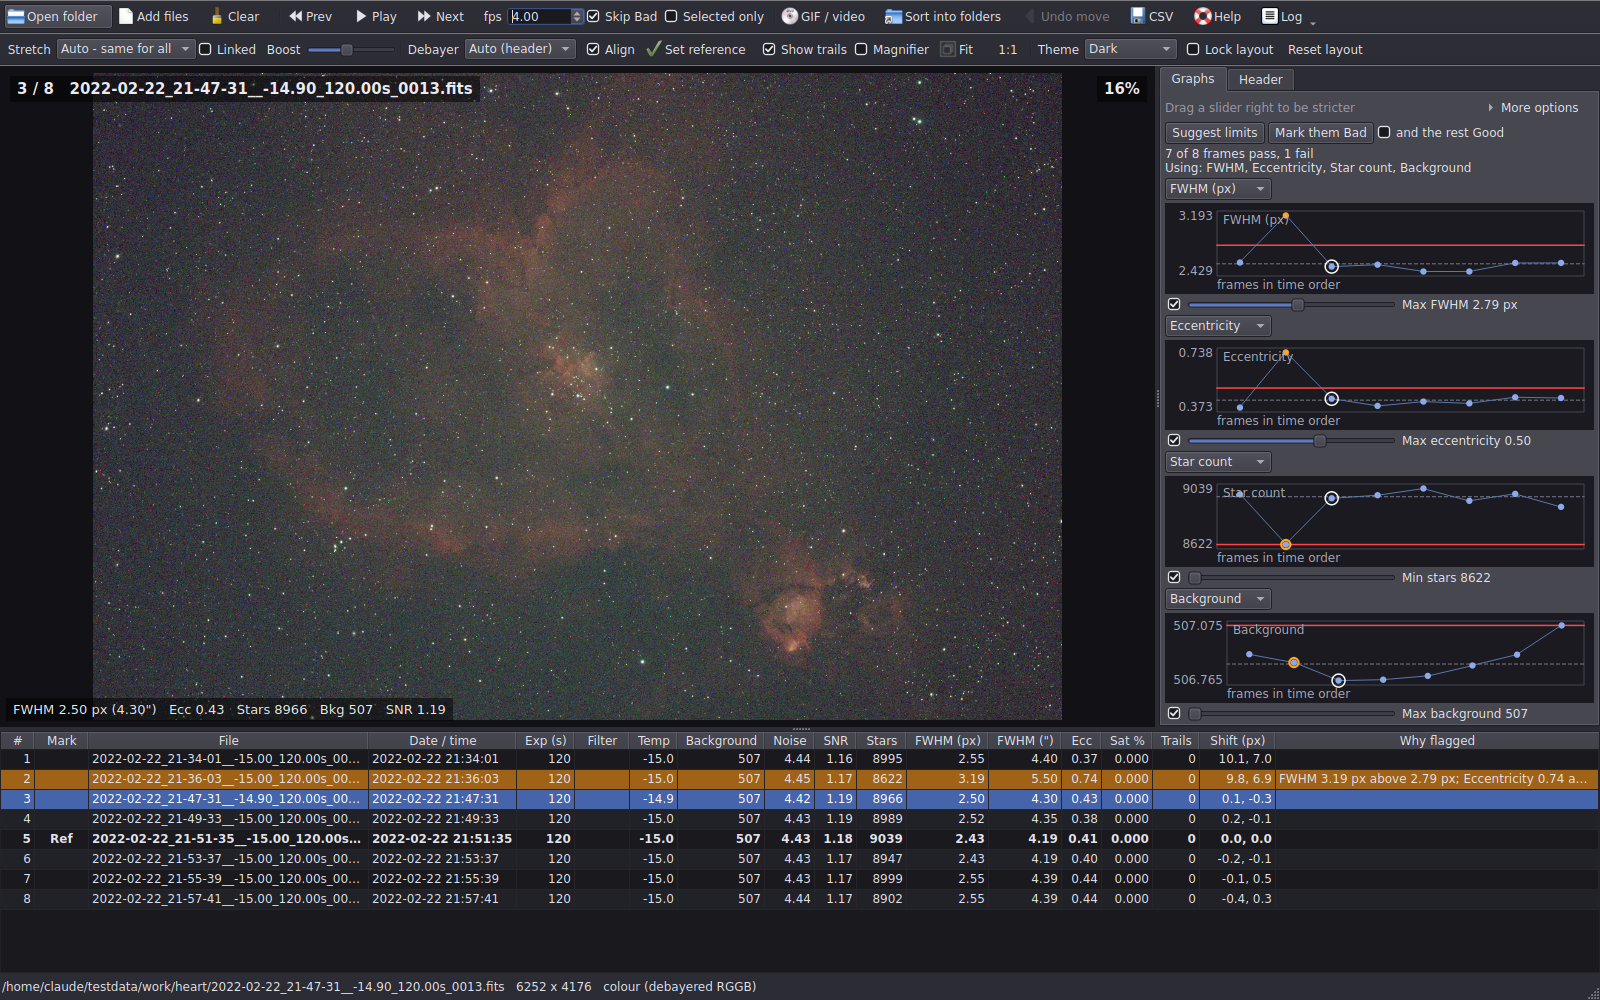
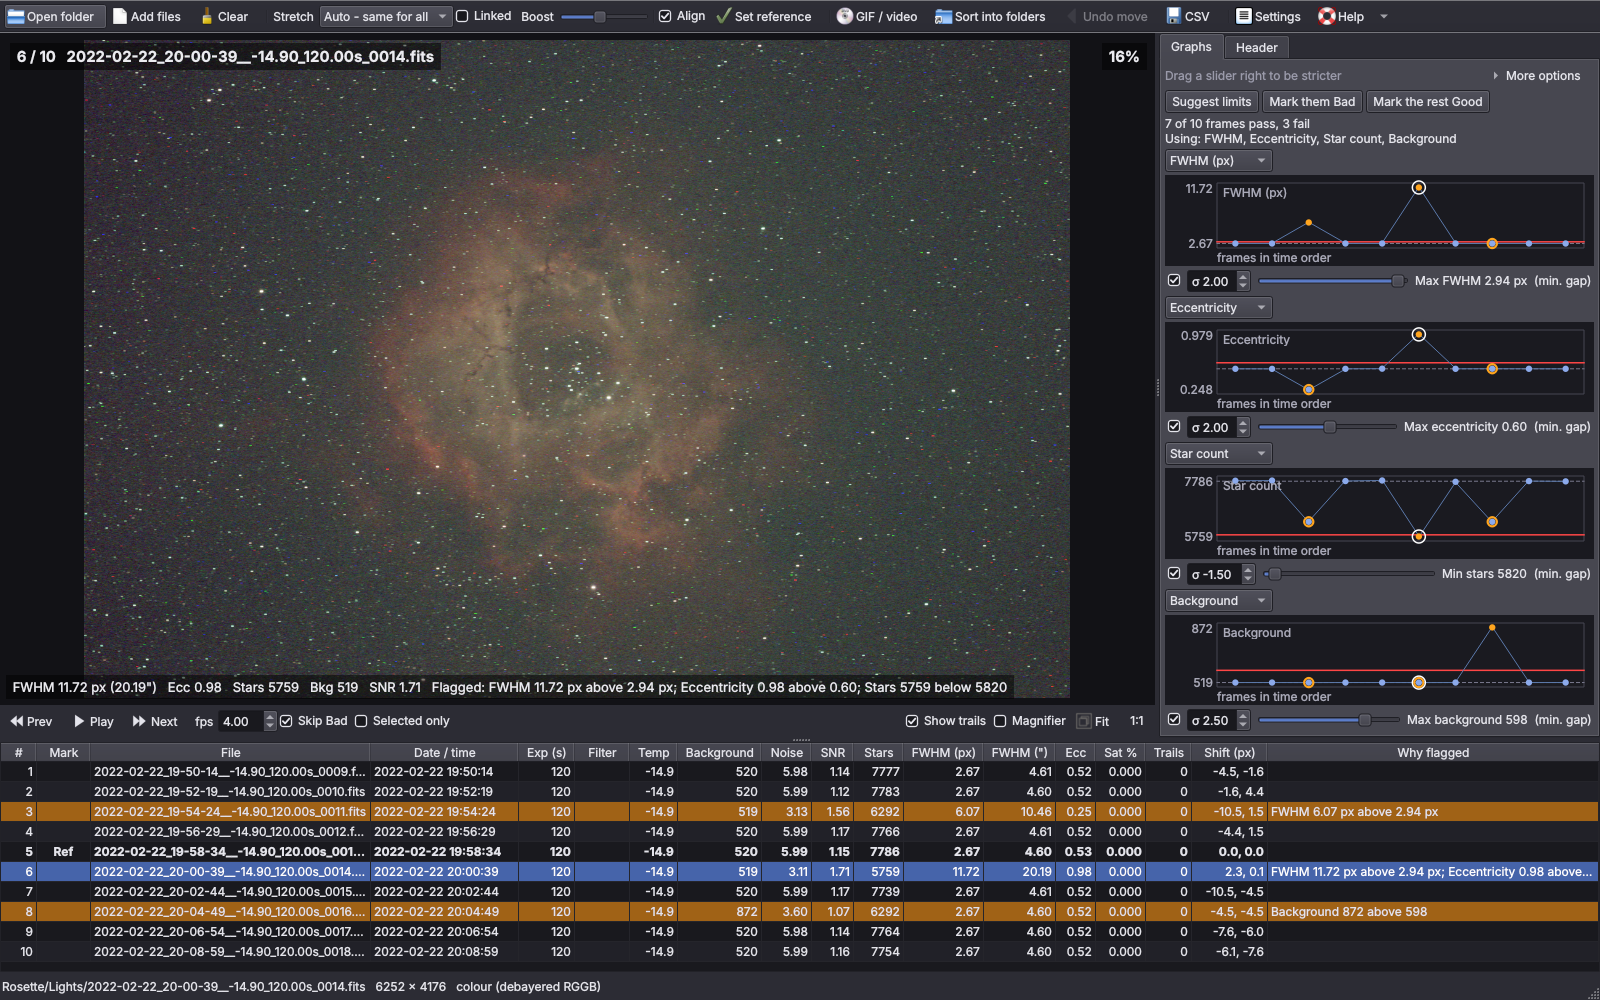
Add files via upload

diff --git a/README.md b/README.md
@@ -19,20 +19,20 @@ Open a folder of subs and AS Blink measures every frame in the background while 
 - **Correct colour (OSC) debayering:** reads the Bayer pattern from the header (BAYERPAT, ROWORDER, XBAYROFF / YBAYROFF, XISF colour filter array), checks it against the data, and warns you if the header has it wrong.
 - **Statistics for every frame:** background, noise, SNR, star count, FWHM (pixels and arcseconds), eccentricity, saturation, trails and shift.
 - **Session graphs** of any measurement through the night, including sensor and focuser temperature, so you can tell whether a rise in FWHM followed the temperature or the seeing.
-- **Graphs with sliders:** each graph has a slider that sets a limit. Dragging right is always stricter. **Suggest limits** finds the odd ones out for you, and **Keep only the best** keeps the best part of the session.
+- **Graphs with sliders:** each graph has a slider that sets a limit. Dragging right is always stricter. **Suggest limits** finds the odd ones out for you, with its own sigma for each graph (like SubframeSelector's `FWHMSigma <= 2` and `StarsSigma >= -1.5`), and **Keep only the best** keeps the best part of the session.
 - **Trail detection:** finds satellite and aircraft trails, including faint ones, and ignores nebula edges that show up in every frame.
 - **Align while blinking:** frames are lined up to a reference frame, including a 180 degree turn after a meridian flip.
 - **Auto stretch:** one shared stretch, so cloud and moonlight stand out, or a stretch for each frame for comparing detail.
 - **Full header view:** every keyword, with a search box and an option to show only what changed from the previous frame.
 - **Magnifier**, fit to window and 1:1 zoom.
-- **Mark Good / Bad** with one key, then **sort into folders**. Moves can be undone.
+- **Mark Good / Bad** with one key, then **sort into folders**: inside the lights folder, in a folder beside it (`Lights_Bad`), or anywhere you choose, and optionally only the Bad frames. Moves can be undone.
 - **GIF or MP4** of selected frames, and **CSV** of the statistics.
 - **Videos:** step through SER, AVI, MP4 and MOV files one frame at a time, or play them at 0.5 to 30 frames a second.
-- **Themes:** Dark, Light and Night (red). The layout is remembered and can be locked.
-- **Support log:** if something goes wrong, **Log > Save log for support...** saves one text file to send in.
+- **Themes:** Dark, Light and Night (red), in **Settings**. The layout is remembered and can be locked.
+- **Support log:** if something goes wrong, **Save log for support...** (under the arrow beside **Help**) saves one text file to send in.
 - **Update check:** once a day it checks GitHub for a newer version and shows a bar with a link to the download page. Turn it off at the bottom of the Help window.
 
-| Light theme (mono subs) | Trail found |
+| Light theme | Trail found |
 |---|---|
 | ![Light theme](screenshots/main_light.png) | ![Satellite trail](screenshots/trail.png) |
 
@@ -75,9 +75,13 @@ You can make a desktop shortcut to `AS_Blink.exe`, and you can drag a folder of 
 
 ## Rejecting frames
 
-Under each graph is a tick box and a slider. The slider is the limit for that measurement (for example "Max FWHM 3.09 px"), drawn as a red line on the graph. Frames past a limit turn orange. Only measurements that are shown on a graph and ticked are used, so to judge on FWHM and star count alone, untick the others.
+The blink controls (Prev, Play, Next, speed, Skip Bad, Selected only) are in the bar under the picture.
 
-**Suggest limits** sets each ticked slider to the session's "odd ones out": frames worse than the typical value by more than twice its usual spread, or by a minimum gap if that is bigger. Frames are only flagged until you press **Mark them Bad**, and nothing is moved until you use **Sort into folders**.
+Under each graph is a tick box, a sigma and a slider. The slider is the limit for that measurement (for example "Max FWHM 3.09 px"), drawn as a red line on the graph. Frames past a limit turn orange. Only measurements that are shown on a graph and ticked are used, so to judge on FWHM and star count alone, untick the others.
+
+**Suggest limits** sets each ticked slider to the session's "odd ones out": frames worse than the typical value by more than that graph's sigma times its usual spread, or by a minimum gap if that is bigger (the gap stops a very steady graph flagging tiny wobbles, and "(min. gap)" shows when it sets the limit). Each graph has its own sigma, the same way round as PixInsight's SubframeSelector: plus for "too high" (FWHM 2, eccentricity 2, background 2.5) and minus for "too low" (star count -1.5, SNR -2.5). Change a sigma and its slider moves straight away.
+
+Frames are only flagged until you press **Mark them Bad**. **Mark the rest Good** marks every other measured frame, before or after. Nothing is moved until you use **Sort into folders**, which can put the Bad frames in a folder beside your lights folder (`Lights_Bad`), so stacking software that reads the folders inside your lights folder does not pick them up, and can leave everything else where it is.
 
 Keep each filter in its own folder: the limits apply to every frame that is open, and AS Blink warns you if a folder mixes filters, exposures or frame sizes.
 
@@ -93,7 +97,7 @@ SER and video files open on the **Linear** stretch, so a planet or the Moon show
 
 ## Something not working?
 
-AS Blink keeps a log of what it does: the files it opens (file names only, never the full path or your user name), how each one was measured, any errors, and sorting and exports. Use **Log > Save log for support...** to save it as one text file, and send it with a few words on what you were doing. **Log > Open log folder** shows where it is kept.
+AS Blink keeps a log of what it does: the files it opens (file names only, never the full path or your user name), how each one was measured, any errors, and sorting and exports. Click the small arrow beside **Help** and choose **Save log for support...** to save it as one text file, and send it with a few words on what you were doing. **Open log folder**, in the same list, shows where it is kept.
 
 ## Licence
 
@@ -103,8 +107,6 @@ You may use it free of charge and share it unchanged, but not sell it, modify it
 
 ## Support
 
-If AS Blink saves you time, you can buy me a coffee: 
-
-<a href="https://www.buymeacoffee.com/astroshed"><img src="https://cdn.buymeacoffee.com/buttons/v2/default-yellow.png" alt="Buy Me a Coffee" height="50"></a>
+If AS Blink saves you time, you can buy me a coffee: [buymeacoffee.com/astroshed](https://buymeacoffee.com/astroshed)
 
 More AstroShed software and videos: [astroshed.co.uk](https://astroshed.co.uk)

diff --git a/CHANGELOG.md b/CHANGELOG.md
@@ -1,5 +1,15 @@
 # Changelog
 
+## 1.0.4
+
+- **Added:** a sigma for each graph. **Suggest limits** now uses a separate sigma for FWHM, eccentricity, star count, background and SNR, set the same way round as PixInsight's SubframeSelector (plus for too high, minus for too low). The starting values are FWHM 2, eccentricity 2, background 2.5, star count -1.5 and SNR -2.5. Changing a sigma moves its slider straight away, and "(min. gap)" shows when the minimum gap, not the sigma, sets a limit.
+- **Added:** Sort into folders can put the folders **next to** each file's folder (`Lights_Bad` beside `Lights`) instead of inside it, so stacking software that reads the folders inside your lights folder does not pick up the bad frames.
+- **Added:** **Only move the Bad frames** in Sort into folders: the bad frames go, everything else stays where it is.
+- **Fixed:** "and the rest Good" only worked when ticked before pressing **Mark them Bad**; afterwards it did nothing. It is now its own **Mark the rest Good** button, which works at any time.
+- **Fixed:** Sort into folders gave the wrong counts when SER frames were sorted ("Move 0 files", and after a failed SER write even "Moved -1 files"). It now says how many files it moves and how many SER files it writes.
+- **Fixed:** sorting or undoing while the blink was playing could, on Windows, catch a sub while it was being read, leaving a copy in both folders. Playback now stops and any frame being read finishes first.
+- **Changed:** a tidier window. The blink controls are in a bar under the picture with Show trails, Magnifier, Fit and 1:1. Theme, Debayer, Lock layout and Reset layout are in a new **Settings** window, and the log is under the arrow beside **Help**. One toolbar row instead of two.
+
 ## 1.0.3
 
 - **Added:** an update check. Once a day AS Blink asks GitHub whether a newer version has been released. If there is one, a bar appears under the toolbar with an **Open the download page** button. Only the version number is asked for: nothing about you or your images is sent.
